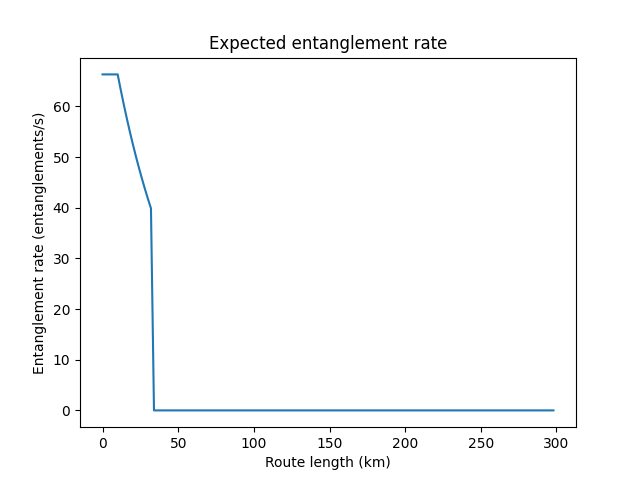
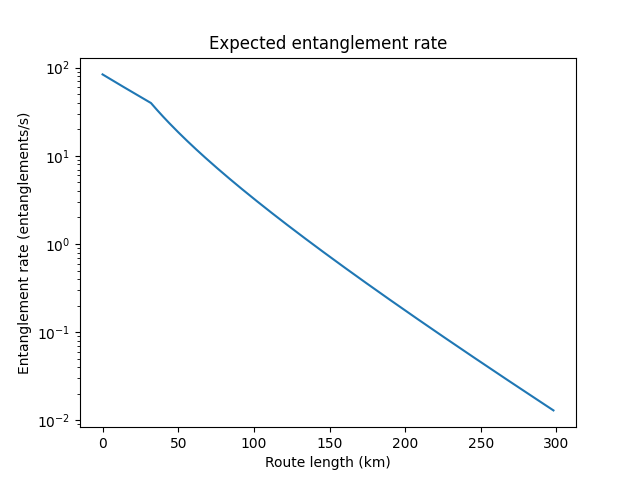
app.py with the correct algorithm

diff --git a/app.py b/app.py
@@ -9,7 +9,7 @@ from collections import defaultdict
 class QuantumNetwork:
     def __init__(self):
         # Physical parameters (default values from the paper)
-        self.p_ht = 0.53       # Atom-photon entanglement probability
+        self.p_ht = 0.53        # Atom-photon entanglement probability
         self.v_h = 0.8          # Herald detector efficiency
         self.v_t = 0.8          # Telecom detector efficiency
         self.v_o = 0.39         # Optical BSM efficiency
@@ -24,65 +24,82 @@ class QuantumNetwork:
         self.tau_a = 10e-6      # Atomic BSM duration (10 μs)
         self.T_ch = 10e-3       # Quantum memory coherence time (10 ms)
 
-    # =============================================
-    # Link Entanglement Rate (Eq. 8 in the paper)
-    # =============================================
-    def link_entanglement_rate(self, d_ij):
-        # Probability of successful link entanglement (Eq. 2)
-        p_ij = 0.5 * self.v_o * (self.p_ht * self.v_h * self.v_t)**2 * np.exp(-d_ij / self.L0)
+    def get_T_c(self, links):
+        return sum(l['T_ij_c'] for l in links)
 
-        # Time for successful attempt (Eq. 4-5)
-        tau_ij = self.tau_t + (d_ij / (2 * self.c_f)) + self.tau_o + (d_ij / (2 * self.c_f))
-        T_ij_s = self.tau_p + max(self.tau_h, tau_ij)
-
-        # Time for failed attempt (Eq. 6)
-        T_ij_f = self.tau_p + max(self.tau_h, tau_ij, self.tau_d)
-
-        # Average time for entanglement generation (Eq. 7)
-        T_ij = ((1 - p_ij) * T_ij_f + p_ij * T_ij_s) / p_ij
-
-        # Link entanglement rate (Eq. 8)
-        if self.T_ch < tau_ij:
-            return 0.0
+    def recT(self, links):
+        n = len(links)
+        if n == 1:
+            return links[0]['T_ij']
         else:
-            return 1.0 / T_ij
+            k = n // 2
+            left_links = links[:k]
+            right_links = links[k:]
+            T_r_left = self.recT(left_links)
+            T_r_right = self.recT(right_links)
+            T = max(T_r_left, T_r_right)
+            T_c = max(self.get_T_c(left_links), self.get_T_c(right_links))
+            T_r_ab = (T + self.tau_a + T_c) / self.v_a
+            return T_r_ab
+
+    def recTau(self, links):
+        n = len(links)
+        if n == 1:
+            return links[0]['T_ij_s']
+        else:
+            k = n // 2
+            left_links = links[:k]
+            right_links = links[k:]
+            tau_r_left = self.recTau(left_links)
+            tau_r_right = self.recTau(right_links)
+            tau = max(tau_r_left, tau_r_right)
+            T_c = max(self.get_T_c(left_links), self.get_T_c(right_links))
+            tau_r_ab = tau + self.tau_a + T_c
+            return tau_r_ab
 
     # =============================================
-    # End-to-End Entanglement Rate (Eq. 11)
+    # End-to-End Entanglement Rate (Algorithm 1 in paper)
     # =============================================
     def end_to_end_rate(self, path, distances):
-        if len(path) == 2:
-            # Direct link case
-            d = distances[path[0]][path[1]]
-            return self.link_entanglement_rate(d)
+        #Split path into separate links
+        links = []
+        for i in range(len(path) - 1):
+            link = {}
+            link['src'] = path[i]
+            link['dst'] = path[i+1]
+            link['dist'] = distances[path[i]][path[i+1]]
+            p_ij = 0.5 * self.v_o * (self.p_ht * self.v_h * self.v_t)**2 * np.exp(-link['dist'] / self.L0)
+            T_ij_c = link['dist'] / (2 * self.c_f)
+            tau_ij = self.tau_t + T_ij_c * 2 + self.tau_o
+            T_ij_s = self.tau_p + max(self.tau_h, tau_ij)
+            T_ij_f = self.tau_p + max(self.tau_h, tau_ij, self.tau_d)
+            T_ij = ((1 - p_ij) * T_ij_f + p_ij * T_ij_s) / p_ij
+            link['tau_ij'] = tau_ij
+            link['T_ij_c'] = T_ij_c
+            link['T_ij_s'] = T_ij_s
+            link['T_ij_f'] = T_ij_f
+            link['T_ij'] = T_ij
+            links.append(link)
+        n = len(links)
+
+        # Calculate the end-to-end entanglement rate
+        if n == 1 and links[0]['tau_ij'] < self.T_ch:
+            return 1.0 / links[0]['T_ij']
         else:
-            # Recursive case (split path into sub-paths)
-            k = len(path) // 2
-            left_path = path[:k+1]
-            right_path = path[k:]
-
-            # Recursively compute rates for sub-paths
-            rate_left = self.end_to_end_rate(left_path, distances)
-            rate_right = self.end_to_end_rate(right_path, distances)
-
-            # If either sub-path has zero rate, the whole path fails
-            if rate_left == 0 or rate_right == 0:
-                return 0.0
-
-            # Time for entanglement swapping (Eq. 10)
-            T_left = 1.0 / rate_left
-            T_right = 1.0 / rate_right
-            T_swap = (max(T_left, T_right) + self.tau_a) / self.v_a
-
-            # Check decoherence constraint (Eq. 11)
-            tau_left = T_left
-            tau_right = T_right
-            tau_total = max(tau_left, tau_right) + self.tau_a
-
-            if self.T_ch < tau_total:
-                return 0.0
-            else:
-                return 1.0 / T_swap
+            k = n // 2
+            left_links = links[:k]
+            right_links = links[k:]
+            T_r_left = self.recT(left_links)
+            T_r_right = self.recT(right_links)
+            T = max(T_r_left, T_r_right)
+            T_c = max(self.get_T_c(left_links), self.get_T_c(right_links))
+            T_r_ij = (T + self.tau_a + T_c) / self.v_a
+            tau_r_left = self.recTau(left_links)
+            tau_r_right = self.recTau(right_links)
+            tau = max(tau_r_left, tau_r_right)
+            tau_r_ij = tau + self.tau_a + T_c
+            if tau_r_ij - min([l['T_ij_s'] - l['tau_ij'] for l in links]) <= self.T_ch:
+                return 1 / T_r_ij
 
 # =============================================
 # Optimal Path Selection (Algorithm 3 in paper)
@@ -101,10 +118,11 @@ def find_optimal_path(network, nodes, distances, startPoint, endPoint):
     best_rate = 0.0
 
     for path in all_paths:
-        rate = network.end_to_end_rate(path, distances)
-        if rate > best_rate and path[0] == startPoint and path[-1] == endPoint:
-            best_rate = rate
-            best_path = path
+        if path[0] == startPoint and path[-1] == endPoint:
+            rate = network.end_to_end_rate(path, distances)
+            if rate > best_rate:
+                best_rate = rate
+                best_path = path
 
     return best_path, best_rate
 
@@ -143,9 +161,9 @@ if __name__ == "__main__":
     y_axis = []
     for x in range(150):
         distances = {
-            "v1": {"v2": 5e3},
+            "v1": {"v2": x*1e3},
             "v2": {"v1": x*1e3, "v3": x*1e3},
-            "v3": {"v2": 5e3}
+            "v3": {"v2": x*1e3}
         }
     
         # Initialize the quantum network
@@ -159,6 +177,7 @@ if __name__ == "__main__":
     #Plot results
     plt.plot(x_axis, y_axis)
     plt.xlabel('Route length (km)')
+    plt.yscale('log')
     plt.ylabel('Entanglement rate (entanglements/s)')
     plt.title('Expected entanglement rate')
     plt.savefig('entanglement_rate_plot.png')
